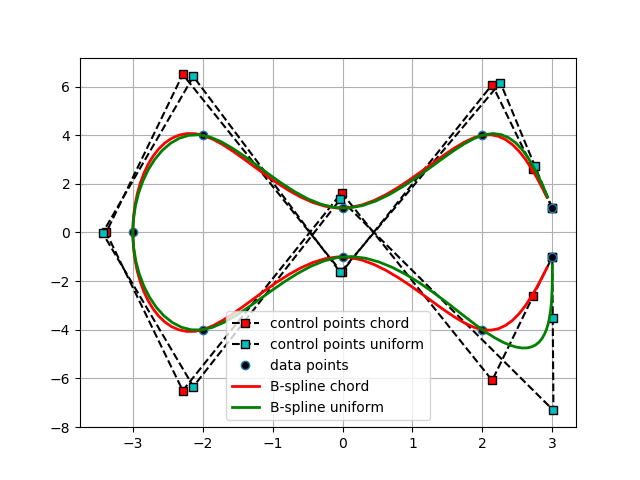
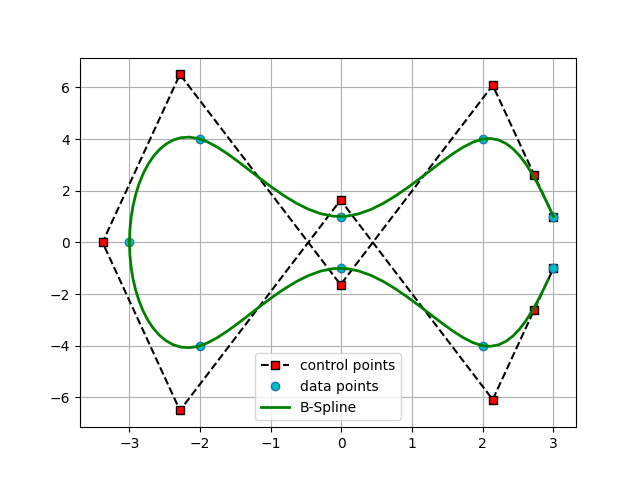
remove NumPy

diff --git a/src/CubicBSpline.py b/src/CubicBSpline.py
@@ -1,9 +1,8 @@
-import numpy as np
-from src.utils import log
+from src.utils import log, zeros_matrix
 
 
 def euclidean_distance(d1, d2):
-    """calculate the distance between two data points
+    """calculates the distance between two data points
     :param d1: points 1
     :param d2: points 2
     :return: distance between two points
@@ -11,12 +10,12 @@ def euclidean_distance(d1, d2):
     n = len(d1)
     sum_ = 0
     for i in range(n):
-        sum_ += np.square(d1[i] - d2[i])
-    return np.sqrt(sum_)
+        sum_ += (d1[i] - d2[i])**2
+    return (sum_)**0.5
 
 
 def set_knots(param_list, degree=3):
-    """Set the B-spline knots
+    """sets the B-spline knots
     :param param_list:
     :param degree:
     :return:
@@ -28,7 +27,7 @@ def set_knots(param_list, degree=3):
 
 
 def evaluate(t, u, i, j):
-    """evaluate the element of the N basis matrix
+    """evaluates the element of the N basis matrix
     :param t:
     :param u:
     :param i:
@@ -38,30 +37,39 @@ def evaluate(t, u, i, j):
     val = 0.
 
     if u[j] <= t[i] <= u[j + 1] and (t[i] != u[j] or t[i] != u[j + 1]):
-        val = (t[i] - u[j]) ** 3 / ((u[j + 1] - u[j]) * (u[j + 2] - u[j]) * (u[j + 3] - u[j]))
+        try:
+            val = (t[i] - u[j]) ** 3 / ((u[j + 1] - u[j]) * (u[j + 2] - u[j]) * (u[j + 3] - u[j]))
+        except ZeroDivisionError:
+            val = 0.
 
     elif u[j + 1] <= t[i] < u[j + 2]:
-        val = ((t[i] - u[j]) ** 2 * (u[j + 2] - t[i])) / (
-                (u[j + 2] - u[j + 1]) * (u[j + 3] - u[j]) * (u[j + 2] - u[j])) + \
-            ((u[j + 3] - t[i]) * (t[i] - u[j]) * (t[i] - u[j + 1])) / (
-                (u[j + 2] - u[j + 1]) * (u[j + 3] - u[j + 1]) * (u[j + 3] - u[j])) + \
-            ((u[j + 4] - t[i]) * ((t[i] - u[j + 1]) ** 2)) / (
-                (u[j + 2] - u[j + 1]) * (u[j + 4] - u[j + 1]) * (u[j + 3] - u[j + 1]))
+        try:
+            val = ((t[i] - u[j]) ** 2 * (u[j + 2] - t[i])) / (
+                    (u[j + 2] - u[j + 1]) * (u[j + 3] - u[j]) * (u[j + 2] - u[j])) + \
+                  ((u[j + 3] - t[i]) * (t[i] - u[j]) * (t[i] - u[j + 1])) / (
+                    (u[j + 2] - u[j + 1]) * (u[j + 3] - u[j + 1]) * (u[j + 3] - u[j])) + \
+                  ((u[j + 4] - t[i]) * ((t[i] - u[j + 1]) ** 2)) / (
+                    (u[j + 2] - u[j + 1]) * (u[j + 4] - u[j + 1]) * (u[j + 3] - u[j + 1]))
+        except ZeroDivisionError:
+            val = 0.
 
     elif u[j + 2] <= t[i] < u[j + 3]:
-        val = ((t[i] - u[j]) * (u[j + 3] - t[i]) ** 2) / (
-                (u[j + 3] - u[j + 2]) * (u[j + 3] - u[j + 1]) * (u[j + 3] - u[j])) + \
-            ((u[j + 4] - t[i]) * (u[j + 3] - t[i]) * (t[i] - u[j + 1])) / (
-                (u[j + 3] - u[j + 2]) * (u[j + 4] - u[j + 1]) * (u[j + 3] - u[j + 1])) + \
-            ((u[j + 4] - t[i]) ** 2 * (t[i] - u[j + 2])) / (
-                (u[j + 3] - u[j + 2]) * (u[j + 4] - u[j + 2]) * (u[j + 4] - u[j + 1]))
+        try:
+            val = ((t[i] - u[j]) * (u[j + 3] - t[i]) ** 2) / (
+                    (u[j + 3] - u[j + 2]) * (u[j + 3] - u[j + 1]) * (u[j + 3] - u[j])) + \
+                  ((u[j + 4] - t[i]) * (u[j + 3] - t[i]) * (t[i] - u[j + 1])) / (
+                    (u[j + 3] - u[j + 2]) * (u[j + 4] - u[j + 1]) * (u[j + 3] - u[j + 1])) + \
+                  ((u[j + 4] - t[i]) ** 2 * (t[i] - u[j + 2])) / (
+                    (u[j + 3] - u[j + 2]) * (u[j + 4] - u[j + 2]) * (u[j + 4] - u[j + 1]))
+        except ZeroDivisionError:
+            val = 0.
 
     elif u[j + 3] <= t[i] <= u[j + 4] and (t[i] != u[j + 3] or t[i] != u[j + 4]):
-        val = (u[j + 4] - t[i]) ** 3 / (
-                (u[j + 4] - u[j + 3]) * (u[j + 4] - u[j + 2]) * (u[j + 4] - u[j + 1]))
-
-    if np.isnan(val) or np.isinf(val):
-        val = 0.
+        try:
+            val = (u[j + 4] - t[i]) ** 3 / (
+                    (u[j + 4] - u[j + 3]) * (u[j + 4] - u[j + 2]) * (u[j + 4] - u[j + 1]))
+        except ZeroDivisionError:
+            val = 0.
 
     return val
 
@@ -77,30 +85,39 @@ def endpoints(t, u, i, j):
     val_ = 0.
 
     if u[j] <= t[i] <= u[j + 1] and (t[i] != u[j] or t[i] != u[j + 1]):
-        val_ = 6 * (t[i] - u[j]) / ((u[j + 1] - u[j]) * (u[j + 2] - u[j]) * (u[j + 3] - u[j]))
+        try:
+            val_ = 6 * (t[i] - u[j]) / ((u[j + 1] - u[j]) * (u[j + 2] - u[j]) * (u[j + 3] - u[j]))
+        except ZeroDivisionError:
+            val_ = 0.
 
     elif u[j + 1] <= t[i] <= u[j + 2] and (t[i] != u[j + 1] or t[i] != u[j + 2]):
-        val_ = (2 * (u[j + 2] - t[i]) - 4 * (t[i] - u[j])) / (
-                (u[j + 2] - u[j + 1]) * (u[j + 3] - u[j]) * (u[j + 2] - u[j])) + \
-             (2 * u[j] - 6 * t[i] + 2 * u[j + 1] + 2 * u[j + 3]) / (
-                (u[j + 2] - u[j + 1]) * (u[j + 3] - u[j + 1]) * (u[j + 3] - u[j])) + \
-             (4 * u[j + 1] - 6 * t[i] + 2 * u[j + 4]) / (
-                (u[j + 2] - u[j + 1]) * (u[j + 4] - u[j + 1]) * (u[j + 3] - u[j + 1]))
+        try:
+            val_ = (2 * (u[j + 2] - t[i]) - 4 * (t[i] - u[j])) / (
+                    (u[j + 2] - u[j + 1]) * (u[j + 3] - u[j]) * (u[j + 2] - u[j])) + \
+                   (2 * u[j] - 6 * t[i] + 2 * u[j + 1] + 2 * u[j + 3]) / (
+                    (u[j + 2] - u[j + 1]) * (u[j + 3] - u[j + 1]) * (u[j + 3] - u[j])) + \
+                   (4 * u[j + 1] - 6 * t[i] + 2 * u[j + 4]) / (
+                    (u[j + 2] - u[j + 1]) * (u[j + 4] - u[j + 1]) * (u[j + 3] - u[j + 1]))
+        except ZeroDivisionError:
+            val_ = 0.
 
     elif u[j + 2] <= t[i] <= u[j + 3] and (t[i] != u[j + 2] or t[i] != u[j + 3]):
-        val_ = (6 * t[i] - 2 * u[j] - 4 * u[j + 3]) / (
-                (u[j + 3] - u[j + 2]) * (u[j + 3] - u[j + 1]) * (u[j + 3] - u[j])) + \
-             (6 * t[i] - 2 * u[j + 1] - 2 * u[j + 3] - 2 * u[j + 4]) / (
-                (u[j + 3] - u[j + 2]) * (u[j + 4] - u[j + 1]) * (u[j + 3] - u[j + 1])) + \
-             (6 * t[i] - 2 * u[j + 2] - 4 * u[j + 4]) / (
-                (u[j + 3] - u[j + 2]) * (u[j + 4] - u[j + 2]) * (u[j + 4] - u[j + 1]))
+        try:
+            val_ = (6 * t[i] - 2 * u[j] - 4 * u[j + 3]) / (
+                    (u[j + 3] - u[j + 2]) * (u[j + 3] - u[j + 1]) * (u[j + 3] - u[j])) + \
+                   (6 * t[i] - 2 * u[j + 1] - 2 * u[j + 3] - 2 * u[j + 4]) / (
+                    (u[j + 3] - u[j + 2]) * (u[j + 4] - u[j + 1]) * (u[j + 3] - u[j + 1])) + \
+                   (6 * t[i] - 2 * u[j + 2] - 4 * u[j + 4]) / (
+                    (u[j + 3] - u[j + 2]) * (u[j + 4] - u[j + 2]) * (u[j + 4] - u[j + 1]))
+        except ZeroDivisionError:
+            val_ = 0.
 
     elif u[j + 3] <= t[i] <= u[j + 4] and (t[i] != u[j + 3] or t[i] != u[j + 4]):
-        val_ = 6 * (u[j + 4] - t[i]) / (
-                (u[j + 4] - u[j + 3]) * (u[j + 4] - u[j + 2]) * (u[j + 4] - u[j + 1]))
-
-    if np.isnan(val_) or np.isinf(val_):
-        val_ = 0.
+        try:
+            val_ = 6 * (u[j + 4] - t[i]) / (
+                    (u[j + 4] - u[j + 3]) * (u[j + 4] - u[j + 2]) * (u[j + 4] - u[j + 1]))
+        except ZeroDivisionError:
+            val_ = 0.
 
     return val_
 
@@ -116,7 +133,7 @@ def tridiag_solver(a, b, c, d):
     :return: solution of the system
     """
     nf = len(d)
-    ac, bc, cc, dc = map(np.array, (a, b, c, d))
+    ac, bc, cc, dc = map(list, (a, b, c, d))
     for it in range(1, nf):
         mc = ac[it-1]/bc[it-1]
         bc[it] = bc[it] - mc*cc[it-1]
@@ -132,7 +149,7 @@ def tridiag_solver(a, b, c, d):
 
 
 def parameterize(data_points, degree, type_='chord'):
-    """assign appropriate parameter values to data points
+    """assigns appropriate parameter values to data points
     :param data_points:
     :param degree:
     :param type_:
@@ -177,16 +194,14 @@ def basis(params_list, knots_list):
 
     n = len(params_list) - 1
     cnt_num = n + 3  # control points
-    params_array = np.asarray(params_list)
-    knots_array = np.asarray(knots_list)
-    basis_mat = np.zeros((cnt_num, cnt_num))
+    basis_mat = zeros_matrix(cnt_num, cnt_num)
 
     for i in range(n + 1):
         for j in range(n + 3):
-            basis_mat[i + 1][j] = evaluate(params_array, knots_array, i, j)
+            basis_mat[i + 1][j] = evaluate(params_list, knots_list, i, j)
     for i in range(2):
         for j in range(n + 3):
-            basis_mat[i * (n + 2)][j] = endpoints(params_array, knots_array, i * n, j)
+            basis_mat[i * (n + 2)][j] = endpoints(params_list, knots_list, i * n, j)
 
     return basis_mat
 
@@ -198,24 +213,24 @@ def solver(basis_mat, data_points):
     :return: a list of control points of the B-Spline
     """
     control_points = []
-    n = basis_mat.shape[0]
+    n = len(basis_mat[0])
     d0 = [(0, 0)]
     appended_data_points = d0 + data_points + d0
-    x = np.asarray(appended_data_points)[:, 0]
-    y = np.asarray(appended_data_points)[:, 1]
+    x = [each[0] for each in appended_data_points]
+    y = [each[1] for each in appended_data_points]
 
     # swap the 1st and 2nd rows, the n - 1 and n rows
-    basis_mat[[0, 1]] = basis_mat[[1, 0]]
-    basis_mat[[n - 2, n - 1]] = basis_mat[[n - 1, n - 2]]
-    x[[0, 1]] = x[[1, 0]]
-    x[[n - 2, n - 1]] = x[[n - 1, n - 2]]
-    y[[0, 1]] = y[[1, 0]]
-    y[[n - 2, n - 1]] = y[[n - 1, n - 2]]
+    basis_mat[0], basis_mat[1] = basis_mat[1], basis_mat[0]
+    basis_mat[n - 2], basis_mat[n - 1] = basis_mat[n - 1], basis_mat[n - 2]
+    x[0], x[1] = x[1], x[0]
+    x[n - 2], x[n - 1] = x[n - 1], x[n - 2]
+    y[0], y[1] = y[1], y[0]
+    y[n - 2], y[n - 1] = y[n - 1], y[n - 2]
 
     # extract diagonal
-    lower_diag = np.diag(basis_mat, k=-1)
-    main_diag = np.diag(basis_mat)
-    upper_diag = np.diag(basis_mat, k=1)
+    lower_diag = [basis_mat[i + 1][i] for i in range(n - 1)]
+    main_diag = [basis_mat[i][i] for i in range(n)]
+    upper_diag = [basis_mat[i][i + 1] for i in range(n - 1)]
 
     x_control = tridiag_solver(lower_diag, main_diag, upper_diag, x)
     y_control = tridiag_solver(lower_diag, main_diag, upper_diag, y)

diff --git a/src/utils.py b/src/utils.py
@@ -66,5 +66,19 @@ def save_out_txt(degree, control_points, knots_list, filename):
     log("Export cubic B-Spline file successfully")
 
 
+def zeros_matrix(rows, cols):
+    """creates a matrix filled with zeros.
+    :param rows: the number of rows the matrix should have
+    :param cols: the number of columns the matrix should have
+    :return: list of lists that form the matrix
+    """
+    M = []
+    while len(M) < rows:
+        M.append([])
+        while len(M[-1]) < cols:
+            M[-1].append(0.0)
+
+    return M
+
 def log(*args, **kwargs):
     print('log:', *args, **kwargs)

diff --git a/plot.py b/plot.py
@@ -1,5 +1,4 @@
 import os
-import numpy as np
 import matplotlib.pyplot as plt
 from src.cubicBSpline import bspline
 from src.utils import read_in_txt, read_out_txt
@@ -10,7 +9,7 @@ def plot():
     data_points, data_points_x, data_points_y = read_in_txt(IN_FILENAME)
     degree, cnt_num, knots_list, control_points_x, control_points_y = read_out_txt(OUT_FILENAME)
 
-    xx = np.linspace(0.01, 0.99, 100)
+    xx = [x/100 for x in list(range(0,100,1))]
 
     fig, ax = plt.subplots()
     x = [bspline(x, knots_list, control_points_x, degree) for x in xx]

diff --git a/README.md b/README.md
@@ -1,11 +1,10 @@
 # Cubic-B-Spline-Interpolation
 
-This repository implements the cubic B-spline interpolation with Python from scratch. If you are not familiar with B-Spline, you can click [here](https://web.mit.edu/hyperbook/Patrikalakis-Maekawa-Cho/node17.html) to quickly grasp the knowledge.
+This repository implements the cubic B-spline interpolation in pure Python without Numpy or Scipy. If you are not familiar with B-Spline, you can click [here](https://web.mit.edu/hyperbook/Patrikalakis-Maekawa-Cho/node17.html) to quickly grasp the knowledge.
 
 ### Requirements
-The only two requrired packages are NumPy for matrix operation and Matplotlib for curve visualization.
+The only requrired packages is Matplotlib for B-spline curve visualization.
 
-* [NumPy 1.18.2](https://numpy.org/devdocs/release/1.18.0-notes.html)
 * [Matplotlib 3.2.1](https://matplotlib.org)
 
 # Implementation
@@ -45,8 +44,10 @@ the following command in the terminal:
 ```
 python plot.py 
 ```
-The interpolating curves of the two example data points
+The interpolating curves of the two example set of data points
 are shown as follow.
 
 ![result pic](./results/eg1out.png)
 ![result pic](./results/eg2out.png)
+
+Enjoy yourself!
